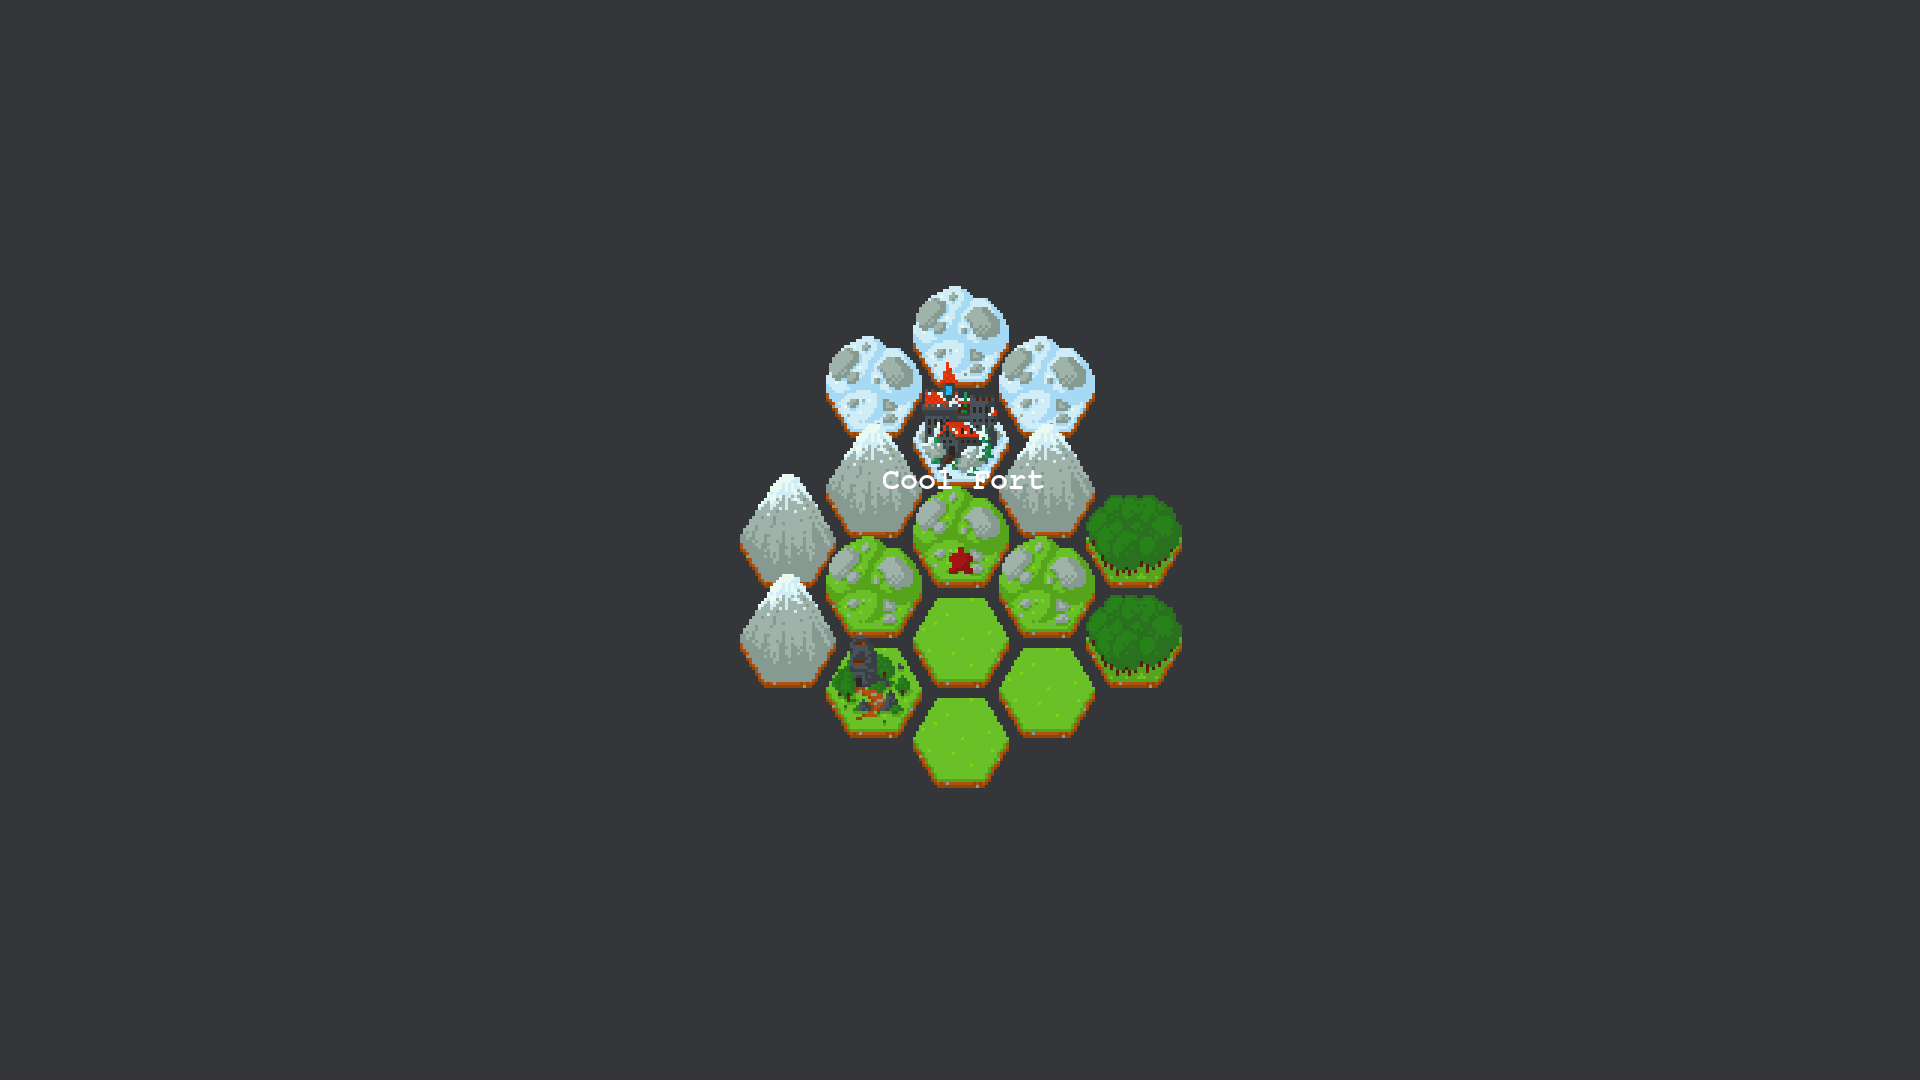
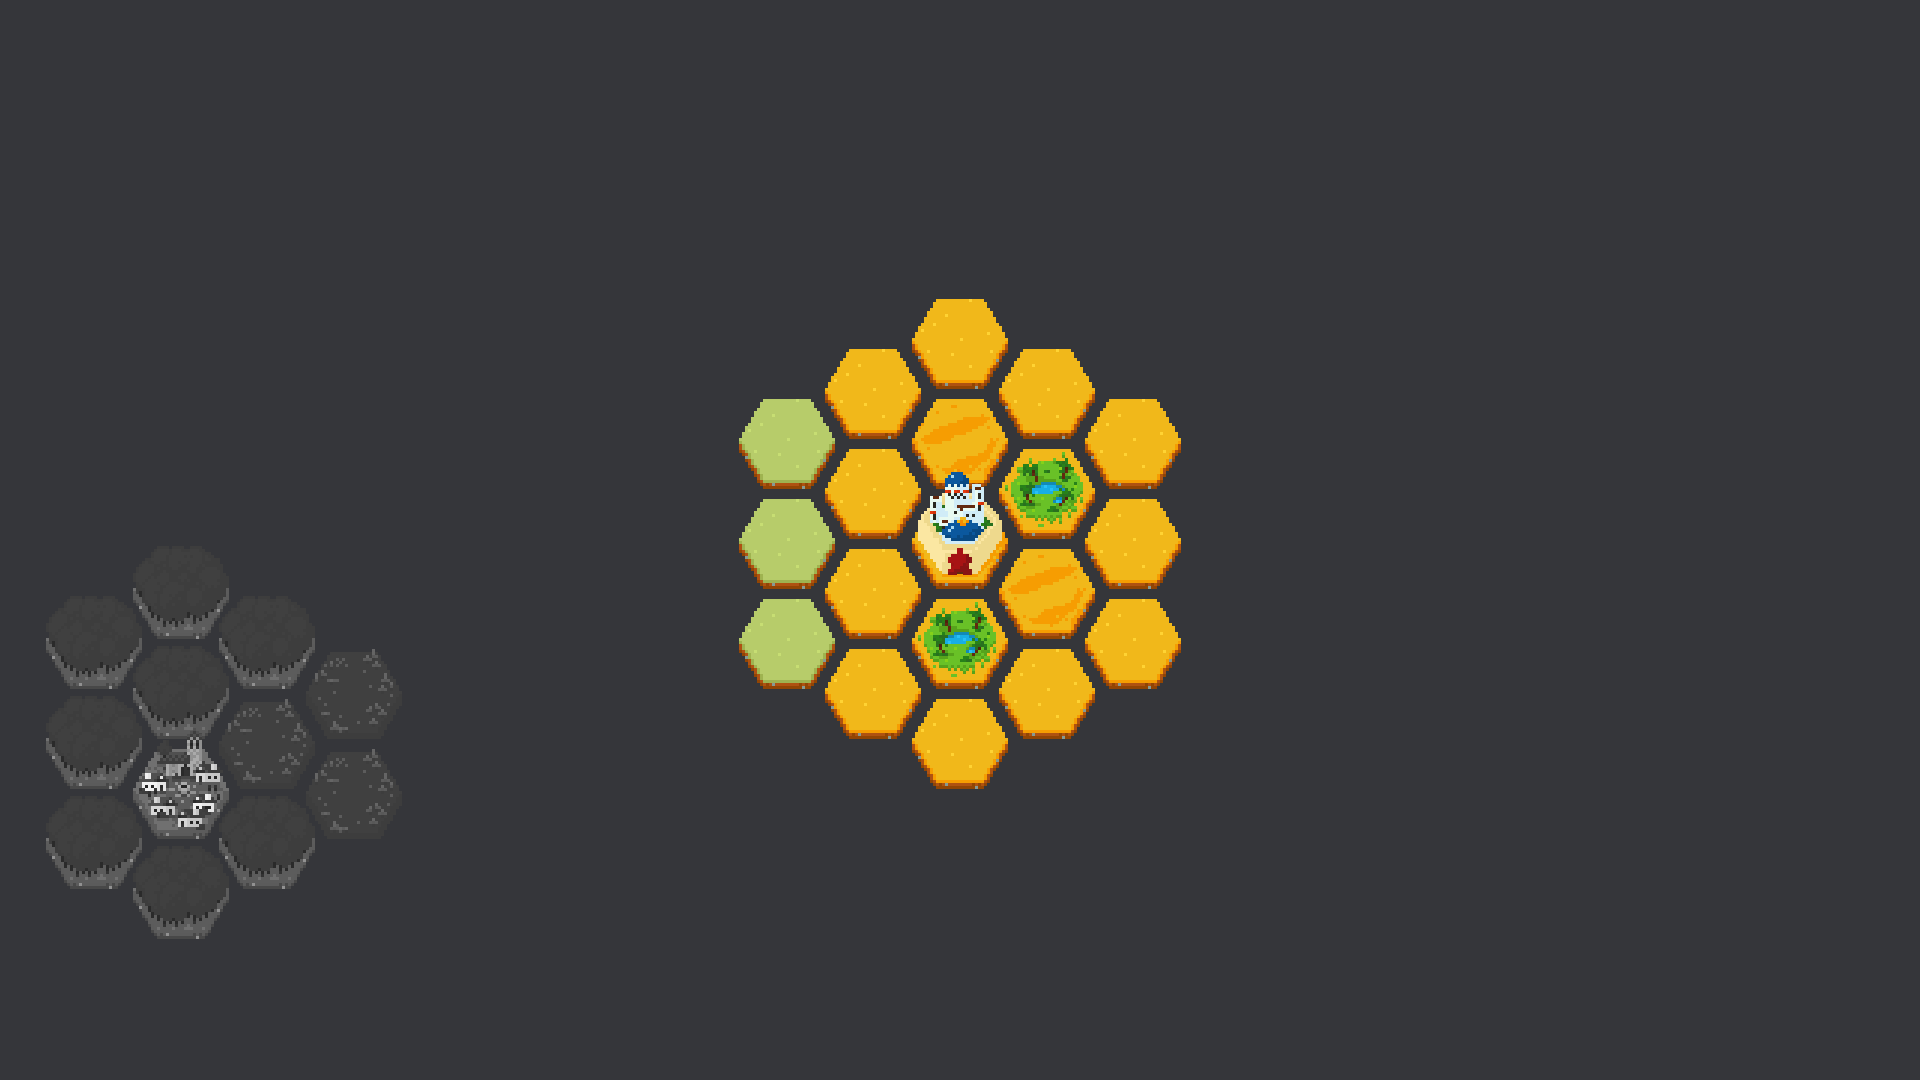
Added player view history

diff --git a/MapUIProject/renderer.py b/MapUIProject/renderer.py
@@ -20,8 +20,7 @@ def render_screen(surface, tiles, players, camera, placementMode = False, curren
                 if placementMode:
                     tile.render(surface, camera)
                 else:
-                    if tile.visible:
-                        tile.render(surface, camera, currentFocusTile == tile)
+                    tile.render(surface, camera, currentFocusTile == tile)
     for i in range(lowestX, highestX + 1):
         for tile in tiles:
             if tile.loc[0] == i:
@@ -34,8 +33,7 @@ def render_screen(surface, tiles, players, camera, placementMode = False, curren
     for i in range(lowestX, highestX + 1):
         for tile in tiles:
             if tile.loc[0] == i:
-                if tile.visible:
-                    tile.renderLabels(surface, camera)
+                tile.renderLabels(surface, camera)
 
 
 def render_full_screen(surface, tiles, players, camera, placementMode=False, currentFocusTile=None):
@@ -44,12 +42,15 @@ def render_full_screen(surface, tiles, players, camera, placementMode=False, cur
     render_screen(surface, tiles, players, camera, placementMode, currentFocusTile)
 
 
-def render_perspective(surface, tiles, players, camera, centerId):
+def calculate_vision(tiles, centerId):
+    newVisibleTiles = []
+
     centerTile = None
     for tile in tiles:
         tile.visible = False
         tile.distance = -1
         if tile.id == centerId:
+            newVisibleTiles.append(tile)
             tile.visible = True
             tile.distance = 0
             centerTile = tile
@@ -86,13 +87,20 @@ def render_perspective(surface, tiles, players, camera, centerId):
         for tile in tilesToChange:
             tile[0].visible = True
             tile[0].distance = tile[1]
+            newVisibleTiles.append(tile[0])
 
+    return tiles, newVisibleTiles
+
+
+def render_perspective(surface, tiles, players, camera, centerId):
+    tiles, _ = calculate_vision(tiles, centerId)
     render_screen(surface, tiles, players, camera)
 
 
-def get_map_image_by_tile(mapName, tileId, size, player=False):
+def get_map_image_by_tile(mapName, tileId, size, player=False, tiles=[], Ps=[]):
     mapData = ast.literal_eval(requests.get("http://" + utils.ipAddress + "/map/" + mapName).text)
-    _, Ms, Ps = utils.updateData(mapData)
+    if not tiles:
+        _, tiles, Ps = utils.updateData(mapData)
 
     scale = 100
     camera = {"scale": scale,
@@ -124,12 +132,39 @@ def get_map_image_by_tile(mapName, tileId, size, player=False):
     surface.fill(utils.colors["background"])
 
     if player:
-        render_perspective(surface, Ms, Ps, camera, tileId)
+        render_perspective(surface, tiles, Ps, camera, tileId)
     else:
-        render_full_screen(surface, Ms, Ps, camera)
+        render_full_screen(surface, tiles, Ps, camera)
 
     pygame.image.save(surface, "map.png")
 
 
 def get_map_image_by_player(mapName, playerName, size):
-    get_map_image_by_tile(mapName, playerName, size, True)
+    update_player_vision(mapName, playerName)
+
+    mapData = ast.literal_eval(requests.get("http://" + utils.ipAddress + "/map/" + mapName).text)
+    _, Ms, Ps = utils.updateData(mapData)
+
+    for tile in Ms:
+        if str(tile.id) in mapData["players"][playerName]["rememberedTiles"]:
+            tile.remembered = True
+            tile.rType = mapData["players"][playerName]["rememberedTiles"][tile.id]["type"]
+            tile.rLabel = mapData["players"][playerName]["rememberedTiles"][tile.id]["label"]
+        else:
+            tile.remembered = False
+
+    get_map_image_by_tile(mapName, playerName, size, True, Ms, Ps)
+
+
+def update_player_vision(mapName, playerName):
+    mapData = ast.literal_eval(requests.get("http://" + utils.ipAddress + "/map/" + mapName).text)
+    _, Ms, Ps = utils.updateData(mapData)
+
+    centerId = mapData["players"][playerName]["tileId"]
+    _, newVisibleTiles = calculate_vision(Ms, centerId)
+
+    for tile in newVisibleTiles:
+        if tile.label == "":
+            requests.put("http://" + utils.ipAddress + "/map/" + mapName + "/players/" + playerName + "/remember/" + str(tile.id) + "/" + str(tile.type) + "/_")
+        else:
+            requests.put("http://" + utils.ipAddress + "/map/" + mapName + "/players/" + playerName + "/remember/" + str(tile.id) + "/" + str(tile.type) + "/" + str(tile.label))

diff --git a/MapUIProject/tile.py b/MapUIProject/tile.py
@@ -12,6 +12,9 @@ class Tile:
     comments = ""
     covered = False
     height = 0
+    remembered = False
+    rType = ""
+    rLabel = ""
 
     def __init__(self, location, type, unique_id=0, label="", comments=""):
         self.loc = location
@@ -29,24 +32,36 @@ class Tile:
     def render(self, surface, camera, focus=False):
         x = self.loc[0]
         y = self.loc[1]
+        bounds = []
         if utils.vertical:
             color = self.color[0]
             if focus:
                 color = self.color[1]
-            bounds = utils.drawCell(surface, camera, x, y, color)
+            if self.visible:
+                bounds = utils.drawCell(surface, camera, x, y, color)
         else:
-            image = pygame.image.load("..\\MapUIProject\\tiles\\used\\" + self.type)
-            if focus:
-                brighten = 30
-                image.fill((brighten, brighten, brighten), special_flags=pygame.BLEND_RGB_ADD)
-            bounds = utils.drawTile(surface, camera, x, y, image)
+            if self.visible:
+                image = pygame.image.load("..\\MapUIProject\\tiles\\used\\" + self.type)
+                if focus:
+                    brighten = 30
+                    image.fill((brighten, brighten, brighten), special_flags=pygame.BLEND_RGB_ADD)
+                bounds = utils.drawTile(surface, camera, x, y, image)
+            elif self.remembered:
+                image = pygame.image.load("..\\MapUIProject\\tiles\\used\\" + self.rType)
+                image = utils.convertToGreyscale(image)
+                bounds = utils.drawTile(surface, camera, x, y, image)
+
         return bounds
 
     def renderLabels(self, surface, camera):
         x = self.loc[0]
         y = self.loc[1]
-        if self.label != "":
-            utils.drawLabel(surface, camera, x, y, self.label)
+        if self.visible:
+            if self.label != "":
+                utils.drawLabel(surface, camera, x, y, self.label, (255, 255, 255))
+        elif self.remembered:
+            if self.rLabel != "":
+                utils.drawLabel(surface, camera, x, y, self.rLabel, (0, 0, 0))
 
     def get_bounds(self, camera):
         x = self.loc[0]

diff --git a/ApiProject/main.py b/ApiProject/main.py
@@ -216,7 +216,8 @@ async def create_player(mapName: str, name: str, id: str, color: str):
                     mapData["hash"] = str(uuid.uuid4())
                     mapData["players"][name] = {
                         "tileId": id,
-                        "color": color
+                        "color": color,
+                        "rememberedTiles": {}
                     }
                     os.remove("maps/" + mapName + ".json")
                     with open("maps/" + mapName + ".json", "x") as outfile:
@@ -238,6 +239,28 @@ async def move_player(mapName: str, name: str, id: str):
                     if player == name:
                         mapData["hash"] = str(uuid.uuid4())
                         mapData["players"][name]["tileId"] = id
+                        os.remove("maps/" + mapName + ".json")
+                        with open("maps/" + mapName + ".json", "x") as outfile:
+                            json.dump(mapData, outfile)
+                        return mapData
+            else:
+                return {"message": "Player does not exist."}
+        else:
+            return {"message": "Tile does not exist."}
+    return {"message": "Map does not exist."}
+
+
+@app.put("/map/{mapName}/players/{name}/remember/{id}/{type}/{label}", status_code=200)
+async def upgrade_players_remembered_tiles(mapName: str, name: str, id: str, type: str, label: str):
+    if os.path.isfile("maps/" + mapName + ".json"):
+        with open("maps/" + mapName + ".json") as mapJsonFile:
+            mapData = json.load(mapJsonFile)
+        if id in mapData["tiles"]:
+            if name in mapData["players"]:
+                for player in mapData["players"]:
+                    if player == name:
+                        mapData["hash"] = str(uuid.uuid4())
+                        mapData["players"][name]["rememberedTiles"][id] = {"type": type, "label": label.replace("_", "")}
                         os.remove("maps/" + mapName + ".json")
                         with open("maps/" + mapName + ".json", "x") as outfile:
                             json.dump(mapData, outfile)

diff --git a/MapUIProject/utils.py b/MapUIProject/utils.py
@@ -121,7 +121,7 @@ def drawCell(surface, camera, x, y, color):
     return rect
 
 
-def drawLabel(surface, camera, x, y, label):
+def drawLabel(surface, camera, x, y, label, color):
     if (y % 2) == 0:
         x = x + 0.5
     x = (x * camera["scale"]) + camera["ox"]
@@ -129,7 +129,7 @@ def drawLabel(surface, camera, x, y, label):
     if not vertical:
         x, y = y, x
     w = labelFont.size(label)[0]
-    addText(surface, label, x - (w / 2), y + 20, labelFont, (255, 255, 255))
+    addText(surface, label, x - (w / 2), y + 20, labelFont, color)
 
 
 def screenToCameraTransform(p, camera):
@@ -188,3 +188,14 @@ def updateData(mapData):
     for player in mapData["players"]:
         Ps.append(Player(player, mapData["players"][player]["tileId"], mapData["players"][player]["color"]))
     return currentMapHash, Ms, Ps
+
+
+def convertToGreyscale(surf):
+    width, height = surf.get_size()
+    for x in range(width):
+        for y in range(height):
+            red, green, blue, alpha = surf.get_at((x, y))
+            average = (red + green + blue) // 3
+            gs_color = (average, average, average, alpha)
+            surf.set_at((x, y), gs_color)
+    return surf
